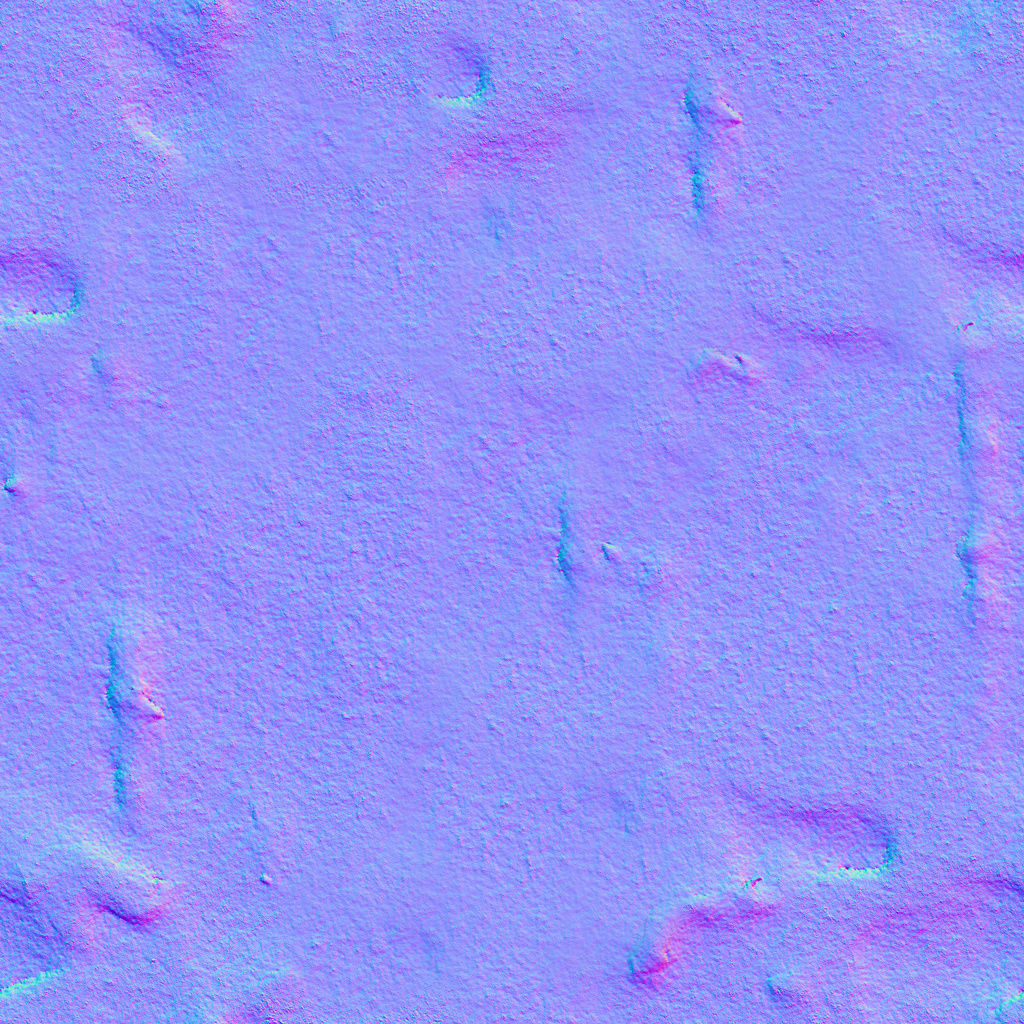
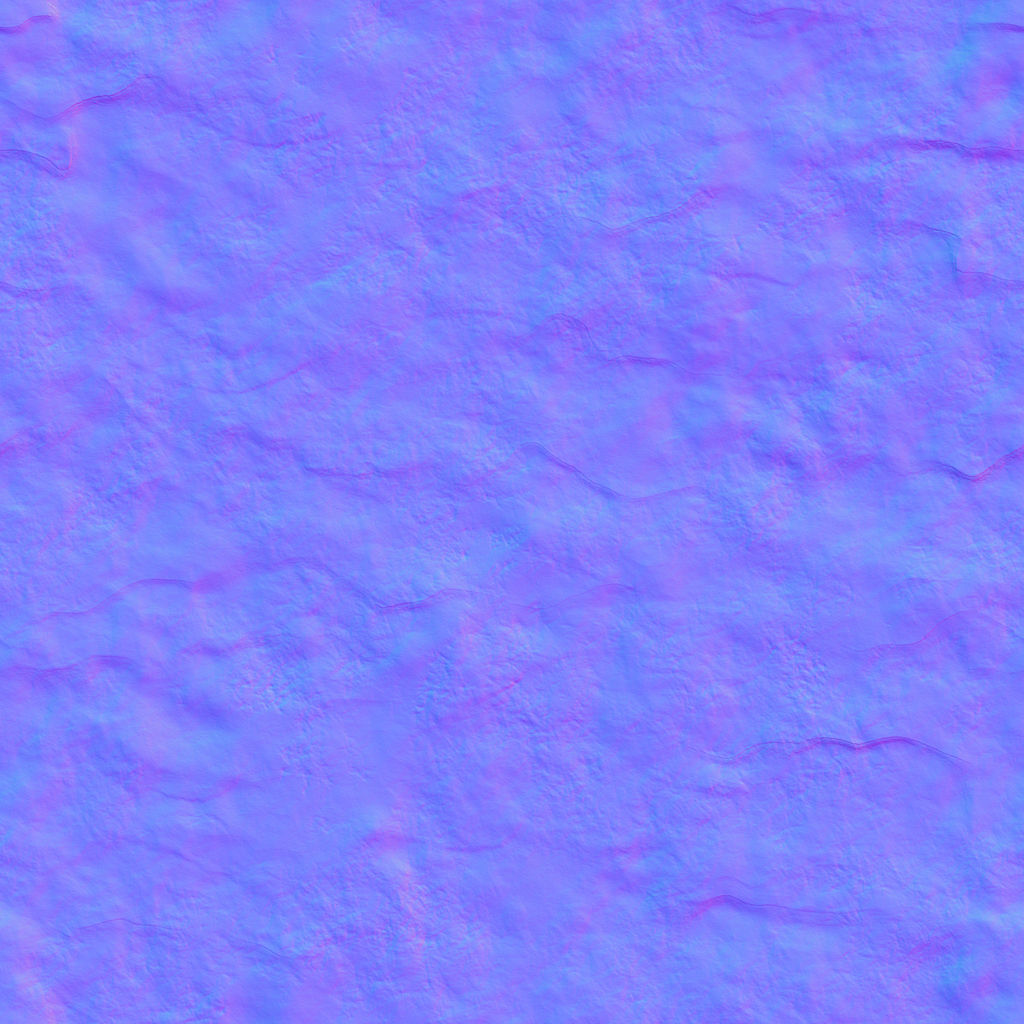
Schnee ohne Fußspuren: neue CC0-Fotosets für Schnee und Pulverschnee
TODO.md Abschnitt 5 („Schnee-Fotoset zeigt fußspurartige Flecken").

- snow: ambientCG Snow010A (sauberer, fester Schnee) statt Poly Haven snow_02.
  Das alte Set hatte dunkle Dellen, die sich alle 8 m wiederholten – auf den
  Schnee-Passagen und, weil es auch der Boden der Eiswelt ist, im ganzen
  Gelände von Ando Prime.
- powder: ambientCG Snow008A (vom Wind geformter Pulverschnee) statt Poly
  Haven snow_01. Das alte Set zeigte Stiefelabdrücke.
- tools/photos/pbr.py: Quellen eingetragen; README: Bildnachweis.
- Die sechs Dateien sind zusammen 0,54 MB groß (vorher 1,41 MB).

Geprüft: Bilder Frostspalt-Ring (WebGL2, Software): Schnee-Passage,
Pulverschnee-Feld, Gelände – keine Abdrücke mehr. Fotosets liegen nie im
Textur-Zwischenspeicher des Browsers, ein alter Stand kann nicht hängen bleiben.

diff --git a/tools/photos/pbr.py b/tools/photos/pbr.py
@@ -24,8 +24,8 @@ SETS = {
     'rock':     ('ph', 'sandstone_cracks'),     # slickrock / plateau rock floor
     'cliff':    ('ph', 'cliff_side'),           # stratified cliff: canyon walls, caves
     'cracked':  ('ph', 'mud_cracked_dry_03'),   # dry cracked pan: plateaus, salt flats
-    'snow':     ('ph', 'snow_02'),              # packed snow
-    'powder':   ('ph', 'snow_01'),              # wind-sculpted powder snow
+    'snow':     ('acg', 'Snow010A'),            # clean packed snow (2026-11-23; before: Poly Haven snow_02 – dark dents that read as footprints, repeated every tile)
+    'powder':   ('acg', 'Snow008A'),            # wind-sculpted powder snow (2026-11-23; before: Poly Haven snow_01 – boot prints all over)
     'ice':      ('acg', 'Ice003'),              # glacier / lake ice
     'lava':     ('acg', 'Lava001'),             # dark lava crust with glowing cracks (emission map)
     'ash':      ('ph', 'burned_ground_01'),     # ash / basalt ground

diff --git a/README.md b/README.md
@@ -209,7 +209,7 @@ Begriffe des Projekts stehen in `CONTEXT.md`, grundlegende Entscheidungen in `do
 ## Bildnachweis
 
 1. **PBR-Texturen (CC0, gemeinfrei):**
-   - [Poly Haven](https://polyhaven.com): `aerial_beach_01` (Sand), `sandstone_cracks` (Fels), `cliff_side` (Klippen, Höhlen), `mud_cracked_dry_03` (Plateau), `snow_02` (Schnee), `snow_01` (Pulverschnee), `burned_ground_01` (Asche), `moon_02` (Mondstaub), `brown_mud_02` (Schlamm), `forest_floor` (Waldboden), `river_small_rocks` (Kies), `metal_plate_02` (Stationsdeck), `coast_land_rocks_01` (Riff).
-   - [ambientCG](https://ambientcg.com): `Ice003` (Eis), `Lava001` (Lavakruste).
+   - [Poly Haven](https://polyhaven.com): `aerial_beach_01` (Sand), `sandstone_cracks` (Fels), `cliff_side` (Klippen, Höhlen), `mud_cracked_dry_03` (Plateau), `burned_ground_01` (Asche), `moon_02` (Mondstaub), `brown_mud_02` (Schlamm), `forest_floor` (Waldboden), `river_small_rocks` (Kies), `metal_plate_02` (Stationsdeck), `coast_land_rocks_01` (Riff).
+   - [ambientCG](https://ambientcg.com): `Ice003` (Eis), `Lava001` (Lavakruste), `Snow010A` (Schnee), `Snow008A` (Pulverschnee).
    - Neu laden und umwandeln: `python3 tools/photos/pbr.py` (braucht Pillow und Internet).
 2. **Foto-Details von Pexels (freie Lizenz):** Fels – Alfo Medeiros, Rinde – Marina Leonova, Sand – Alejandro Henriquez, Boden – Engin Akyurt.
